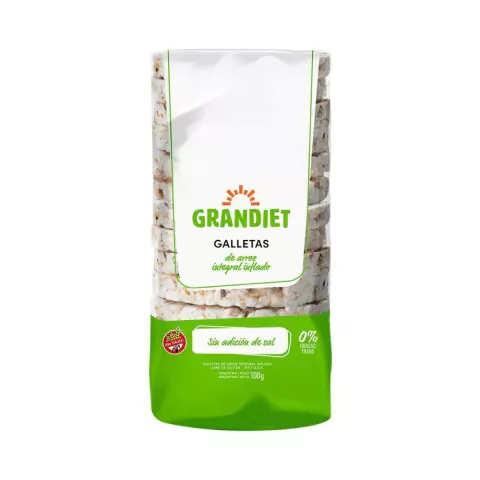
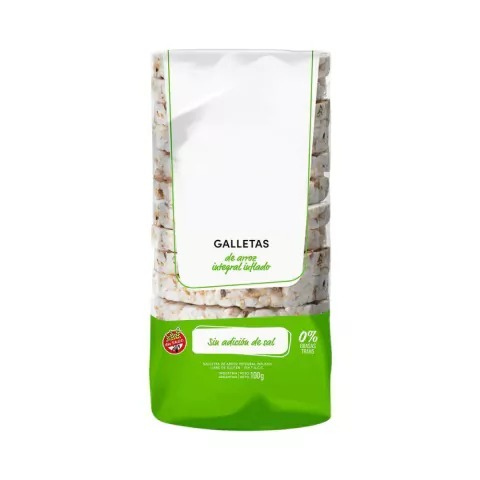
Imágenes de producto en WebP
- Las fotos que se suben desde el panel se convierten a WebP al guardar
  (máximo 1200 px, conservando la transparencia).
- importar_productos usa las fotos recortadas en WebP cuando existen.
- herramientas/recortar_fondos.py suma --rellenar-huecos para envases con
  rótulos blancos que el modelo toma como fondo.
- Se quita la marca anterior de la foto de las galletitas de arroz.
- Tests de la conversión y del comando de importación.

Changed region(s): [[0.375, 0.375, 0.625, 0.5]]

diff --git a/herramientas/recortar_fondos.py b/herramientas/recortar_fondos.py
@@ -16,7 +16,7 @@ import argparse
 import sys
 from pathlib import Path
 
-from PIL import Image
+from PIL import Image, ImageChops
 from rembg import new_session, remove
 
 BASE_DIR = Path(__file__).resolve().parent.parent
@@ -25,7 +25,32 @@ DESTINO = BASE_DIR / "herramientas" / "recortes"
 LADO_MAXIMO = 1000
 
 
-def recortar(origen: Path, destino: Path, modelo: str) -> None:
+def rellenar_huecos(original: Image.Image, recorte: Image.Image) -> Image.Image:
+    """
+    Vuelve opaco, fila por fila, todo lo que queda entre el borde izquierdo y
+    el derecho del producto. Sirve para envases con rótulos blancos grandes,
+    que el modelo a veces toma como fondo aunque estén dentro del paquete.
+    No conviene para formas cóncavas (un bowl con cuchara), por eso es una
+    opción. Los colores salen de la foto original, porque el modelo también
+    altera los de las zonas que descarta.
+    """
+    alfa = recorte.getchannel("A")
+    ancho, alto = alfa.size
+    datos = alfa.load()
+    relleno = Image.new("L", (ancho, alto), 0)
+    pix = relleno.load()
+    for y in range(alto):
+        solidos = [x for x in range(ancho) if datos[x, y] > 128]
+        if len(solidos) < 2:
+            continue
+        for x in range(solidos[0], solidos[-1] + 1):
+            pix[x, y] = 255
+    resultado = original.convert("RGBA")
+    resultado.putalpha(ImageChops.lighter(alfa, relleno))
+    return resultado
+
+
+def recortar(origen: Path, destino: Path, modelo: str, huecos: bool = False) -> None:
     destino.mkdir(parents=True, exist_ok=True)
     sesion = new_session(modelo)
     fotos = sorted(p for p in origen.iterdir() if p.suffix.lower() in {".jpg", ".jpeg", ".png", ".webp"})
@@ -33,6 +58,8 @@ def recortar(origen: Path, destino: Path, modelo: str) -> None:
         imagen = Image.open(foto).convert("RGB")
         imagen.thumbnail((LADO_MAXIMO, LADO_MAXIMO))
         recorte = remove(imagen, session=sesion, post_process_mask=True)
+        if huecos:
+            recorte = rellenar_huecos(imagen, recorte)
         # Ajusta el lienzo al producto: sin márgenes transparentes de sobra.
         caja = recorte.getbbox()
         if caja:
@@ -46,8 +73,9 @@ def main() -> int:
     parser.add_argument("origen", nargs="?", type=Path, default=ORIGEN)
     parser.add_argument("destino", nargs="?", type=Path, default=DESTINO)
     parser.add_argument("--modelo", default="isnet-general-use")
+    parser.add_argument("--rellenar-huecos", action="store_true", help="Vuelve opaco, fila por fila, lo que queda dentro del producto (envases con rótulos blancos).")
     args = parser.parse_args()
-    recortar(args.origen, args.destino, args.modelo)
+    recortar(args.origen, args.destino, args.modelo, huecos=args.rellenar_huecos)
     return 0
 
 

diff --git a/productos/management/commands/importar_productos.py b/productos/management/commands/importar_productos.py
@@ -38,7 +38,8 @@ CATEGORIAS = [
 ]
 
 # Igual a `products` en el script.js original. `imagen` es el nombre de
-# archivo dentro de static/tienda/img/productos/ (fotos originales). `tags` reproduce el array
+# archivo dentro de static/tienda/img/productos/ (fotos originales). Si existe
+# una versión recortada en recortadas/<nombre>.webp, se usa esa. `tags` reproduce el array
 # `tags` original; "offer" se agrega también cuando el producto tiene
 # `oldPrice`, tal como hace badgeMarkup() en script.js. `categoria` indica
 # a qué InventarioSucursal (en Sucursal Central) pertenece el producto.
@@ -81,6 +82,7 @@ class Command(BaseCommand):
         central, _ = Sucursal.objects.get_or_create(nombre="Sucursal Central", defaults={"activo": True})
 
         assets_dir = Path(settings.BASE_DIR) / "static" / "tienda" / "img" / "productos"
+        recortadas_dir = assets_dir / "recortadas"
         media_productos_dir = Path(settings.MEDIA_ROOT) / "productos"
         media_productos_dir.mkdir(parents=True, exist_ok=True)
 
@@ -103,13 +105,16 @@ class Command(BaseCommand):
         for data in PRODUCTOS:
             categoria = categorias_por_nombre[data["categoria"]]
 
+            # Se prefiere la foto recortada (fondo transparente, WebP); si no
+            # existe, se usa la original.
             imagen_rel = None
-            origen = assets_dir / data["imagen"]
+            recortada = recortadas_dir / f"{Path(data['imagen']).stem}.webp"
+            origen = recortada if recortada.exists() else assets_dir / data["imagen"]
             if origen.exists():
-                destino = media_productos_dir / data["imagen"]
+                destino = media_productos_dir / origen.name
                 shutil.copyfile(origen, destino)
                 imagenes_copiadas += 1
-                imagen_rel = f"productos/{data['imagen']}"
+                imagen_rel = f"productos/{origen.name}"
             else:
                 imagenes_faltantes.append((data["nombre"], data["imagen"]))
 

diff --git a/panel/forms.py b/panel/forms.py
@@ -1,6 +1,11 @@
+from io import BytesIO
+from pathlib import Path
+
 from django import forms
 from django.contrib.auth import get_user_model
 from django.contrib.auth.forms import UserCreationForm
+from django.core.files.uploadedfile import SimpleUploadedFile
+from PIL import Image, ImageOps
 
 from productos.models import Categoria, InventarioSucursal, Producto
 from sucursales.models import Sucursal
@@ -51,6 +56,27 @@ class ProductoGlobalForm(forms.ModelForm):
         }
 
     CAMPOS_SOLO_PRECIO = ("precio", "precio_anterior")
+
+    # Las fotos nuevas se guardan en WebP: pesan bastante menos que JPG/PNG y
+    # conservan la transparencia de las fotos recortadas.
+    IMAGEN_LADO_MAXIMO = 1200
+
+    def clean_imagen(self):
+        imagen = self.cleaned_data.get("imagen")
+        # Sin archivo nuevo, Django devuelve el actual (FieldFile): se deja igual.
+        if not imagen or not hasattr(imagen, "content_type"):
+            return imagen
+        try:
+            foto = Image.open(imagen)
+            foto = ImageOps.exif_transpose(foto)
+            foto.thumbnail((self.IMAGEN_LADO_MAXIMO, self.IMAGEN_LADO_MAXIMO))
+            foto = foto.convert("RGBA" if "A" in foto.getbands() or foto.mode == "P" else "RGB")
+            salida = BytesIO()
+            foto.save(salida, "WEBP", quality=80, method=6)
+        except Exception:
+            raise forms.ValidationError("No se pudo procesar la imagen. Probá con una foto JPG, PNG o WebP.")
+        nombre = f"{Path(imagen.name).stem}.webp"
+        return SimpleUploadedFile(nombre, salida.getvalue(), content_type="image/webp")
 
     def __init__(self, *args, solo_precio=False, **kwargs):
         super().__init__(*args, **kwargs)

diff --git a/panel/tests.py b/panel/tests.py
@@ -1,3 +1,38 @@
-from django.test import TestCase
+from io import BytesIO
 
-# Create your tests here.
+from django.core.files.uploadedfile import SimpleUploadedFile
+from django.test import SimpleTestCase
+from PIL import Image
+
+from .forms import ProductoGlobalForm
+
+
+def _archivo(formato, modo="RGB", tamano=(1600, 900), nombre="foto.jpg"):
+    buffer = BytesIO()
+    Image.new(modo, tamano, (200, 120, 80, 128) if modo == "RGBA" else (200, 120, 80)).save(buffer, formato)
+    tipo = {"JPEG": "image/jpeg", "PNG": "image/png"}[formato]
+    return SimpleUploadedFile(nombre, buffer.getvalue(), content_type=tipo)
+
+
+class ImagenWebpTests(SimpleTestCase):
+    def _limpiar(self, archivo):
+        form = ProductoGlobalForm(
+            data={"nombre": "Prueba", "precio": "100"},
+            files={"imagen": archivo},
+        )
+        form.is_valid()
+        return form
+
+    def test_jpg_se_guarda_como_webp_y_se_achica(self):
+        form = self._limpiar(_archivo("JPEG"))
+        self.assertNotIn("imagen", form.errors)
+        imagen = form.cleaned_data["imagen"]
+        self.assertEqual(imagen.name, "foto.webp")
+        foto = Image.open(imagen)
+        self.assertEqual(foto.format, "WEBP")
+        self.assertEqual(max(foto.size), ProductoGlobalForm.IMAGEN_LADO_MAXIMO)
+
+    def test_png_con_transparencia_la_conserva(self):
+        form = self._limpiar(_archivo("PNG", modo="RGBA", tamano=(400, 400), nombre="recorte.png"))
+        foto = Image.open(form.cleaned_data["imagen"])
+        self.assertIn("A", foto.getbands())

diff --git a/productos/tests.py b/productos/tests.py
@@ -1,3 +1,7 @@
+import tempfile
+from io import StringIO
+
+from django.core.management import call_command
 from django.test import TestCase, override_settings
 from django.urls import reverse
 
@@ -69,3 +73,12 @@ class ApiProductosTests(TestCase):
         )
         self.assertEqual(producto["stock"], 3)
         self.assertTrue(producto["oferta"])
+
+
+class ImportarProductosTests(TestCase):
+    def test_usa_las_fotos_recortadas_en_webp(self):
+        with tempfile.TemporaryDirectory() as media, self.settings(MEDIA_ROOT=media):
+            call_command("importar_productos", stdout=StringIO())
+        producto = Producto.objects.get(nombre="Galletitas de arroz integral")
+        self.assertEqual(producto.imagen.name, "productos/galletitas-de-arroz.webp")
+        self.assertFalse(Producto.objects.exclude(imagen__endswith=".webp").exists())
